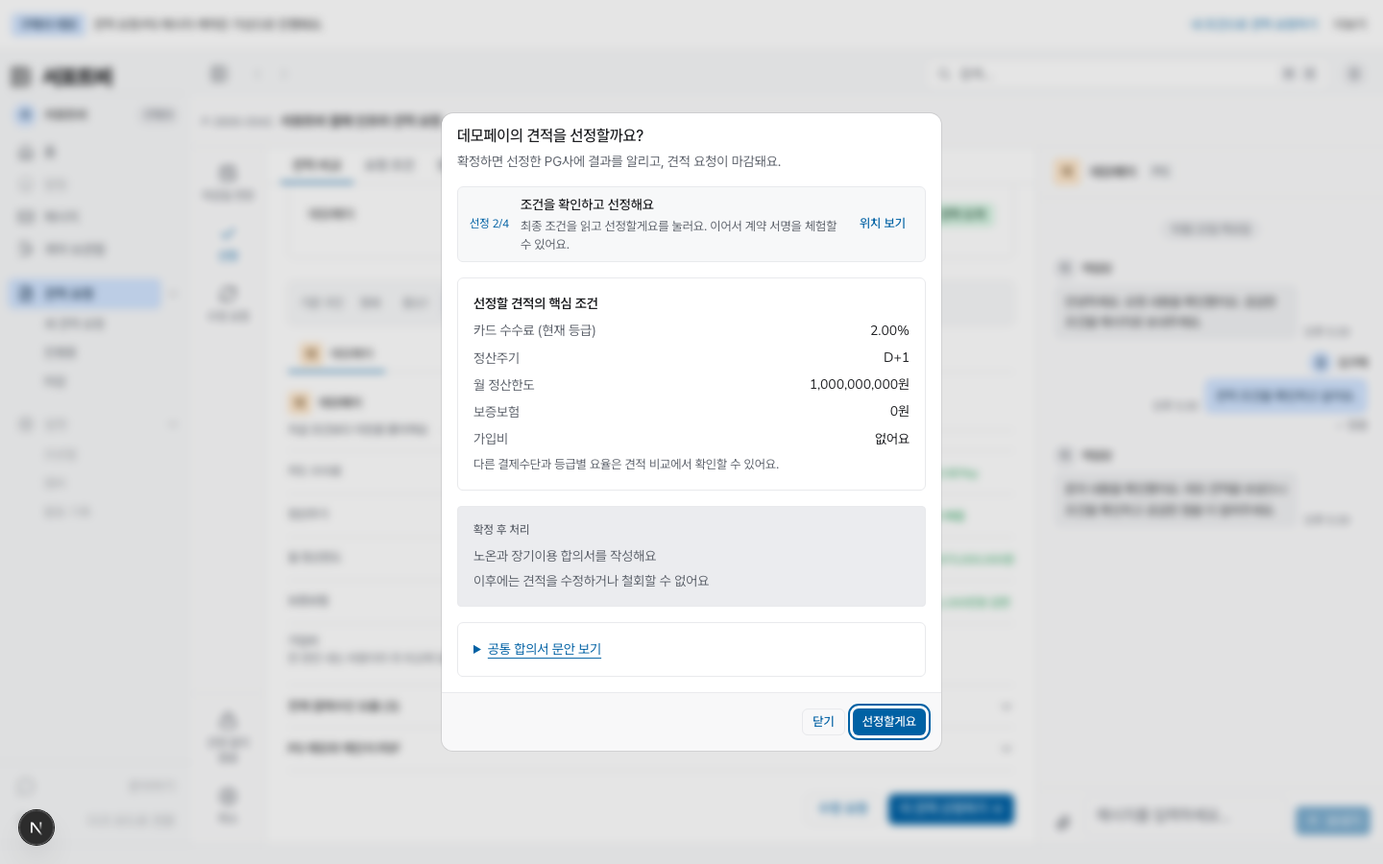
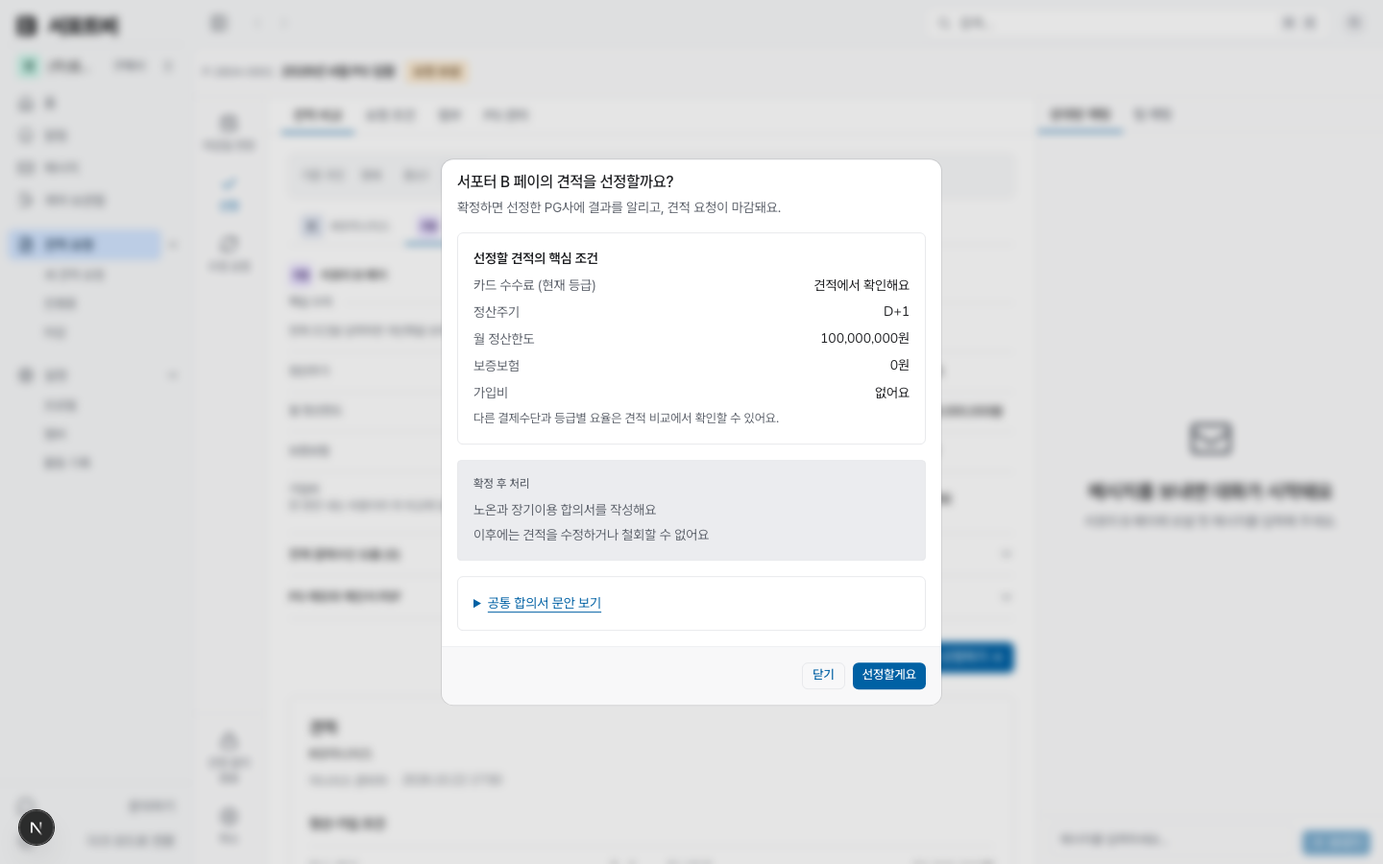
fix: preserve demo guidance and capture authenticated buyer screens

diff --git a/components/deal-room/signing/AgreementConditions.tsx b/components/deal-room/signing/AgreementConditions.tsx
@@ -2,12 +2,12 @@ import { buildPlatformAgreementDocument } from '@/lib/contract-doc/platform-agre
 
 const commonDocument = buildPlatformAgreementDocument('구매사', 'PG사');
 
-/** 선정 전에는 공통 문안 열람만, 발송 전에는 약정 요약을 제공한다. */
-export function AgreementConditions({ beforeAward = false }: { beforeAward?: boolean }) {
+/** 실제 선정 전에는 요약을 숨기고, 데모와 발송 전 안내는 유지한다. */
+export function AgreementConditions({ beforeAward = false, showSummary = true }: { beforeAward?: boolean; showSummary?: boolean }) {
   return (
     <section className="space-y-2 rounded-md border border-[var(--md-sys-color-outline-variant)] p-4 text-sm leading-relaxed">
-      {!beforeAward && <>
-        <h3 className="font-medium">서명 전에 확인해요</h3>
+      {showSummary && <>
+        <h3 className="font-medium">{beforeAward ? '선정 전에 계약 조건을 확인해요' : '서명 전에 확인해요'}</h3>
         <p><span className="md-numeric">2</span>년 약정이에요. 약정기간 동안 해당 PG사의 전자결제서비스를 이용해요.</p>
         <p className="text-[var(--md-sys-color-on-surface-variant)]">
           독점 이용 조건 위반이나 구매사 귀책 해지 시 실제 할인받은 수수료를 노온에 반환하는 조건이 있어요.
@@ -17,8 +17,9 @@ export function AgreementConditions({ beforeAward = false }: { beforeAward?: boo
           약정은 선정한 PG사의 서비스를 실제로 이용하기 시작한 날부터 시작해요.
         </p>
       </>}
-      {beforeAward && (
-        <details>
+      {beforeAward && <>
+        {showSummary && <p>선정 후 회사 정보를 입력하고 노온이 날인한 합의서를 확인해요. 서명을 요청하면 구매사 담당자에게 이메일이 도착해요.</p>}
+        <details className={showSummary ? 'pt-2' : undefined}>
           <summary className="cursor-pointer text-[var(--md-sys-color-primary)] underline underline-offset-4 focus-visible:outline-2 focus-visible:outline-offset-4">공통 합의서 문안 보기</summary>
           <div className="mt-3 space-y-4">
             <p className="text-[var(--md-sys-color-on-surface-variant)]">공통 문안이에요. 회사 정보와 표준 수수료, 할인 폭, 최종 수수료 표는 발송할 합의서에서 확인해요. 최종 수수료는 선정한 견적과 같아요.</p>
@@ -34,7 +35,7 @@ export function AgreementConditions({ beforeAward = false }: { beforeAward?: boo
             <p>{commonDocument.closing}</p>
           </div>
         </details>
-      )}
+      </>}
     </section>
   );
 }

diff --git a/components/rfp/comparison/AwardConfirmDialog.tsx b/components/rfp/comparison/AwardConfirmDialog.tsx
@@ -31,6 +31,7 @@ export function AwardConfirmDialog({
   rfpId,
   awardedBidId,
   pgName,
+  otherCount = 0,
   selectedBid,
   buyerGrade,
   pendingRequote = false,
@@ -42,6 +43,8 @@ export function AwardConfirmDialog({
   rfpId: string;
   awardedBidId: string;
   pgName: string;
+  /** 기존 공개 데모의 미선정 안내에만 사용한다. */
+  otherCount?: number;
   selectedBid: Bid;
   buyerGrade?: MerchantTier;
   pendingRequote?: boolean;
@@ -77,7 +80,9 @@ export function AwardConfirmDialog({
         <DialogHeader>
           <DialogTitle>{pgName}의 견적을 선정할까요?</DialogTitle>
           <DialogDescription>
-            확정하면 선정한 PG사에 결과를 알리고, 견적 요청이 마감돼요.
+            {demo
+              ? '확정하면 선정 PG와 미선정 PG 모두에게 결과를 알리고, 견적 요청이 마감돼요.'
+              : '확정하면 선정한 PG사에 결과를 알리고, 견적 요청이 마감돼요.'}
           </DialogDescription>
           {pendingRequote && <p className="text-[14px] text-[var(--md-sys-color-on-surface-variant)]">수정 견적을 기다리지 않고 현재 견적을 선정해요.</p>}
         </DialogHeader>
@@ -106,11 +111,12 @@ export function AwardConfirmDialog({
           </p>
           <ul className="space-y-1.5 text-[14px] text-[var(--md-sys-color-on-surface-variant)]">
             <li>노온과 장기이용 합의서를 작성해요</li>
+            {demo && <li>미선정 PG {otherCount}곳에 결과를 알려요</li>}
             <li>이후에는 견적을 수정하거나 철회할 수 없어요</li>
           </ul>
         </div>
 
-        {LONG_TERM_AGREEMENTS_ENABLED && <AgreementConditions beforeAward />}
+        {LONG_TERM_AGREEMENTS_ENABLED && <AgreementConditions beforeAward showSummary={!!demo} />}
 
         {error && (
           <p

diff --git a/components/demo/__tests__/SharedDemoScreens.test.tsx b/components/demo/__tests__/SharedDemoScreens.test.tsx
@@ -101,10 +101,17 @@ describe("제품 컴포넌트의 데모 전송 경계", () => {
           rfpId={bid.rfpId}
           awardedBidId={bid.id}
           pgName={DEMO_PG.name}
+          otherCount={0}
           selectedBid={bid}
         />
       </BuyerDemoContext>,
     );
+    expect(screen.getByText('확정하면 선정 PG와 미선정 PG 모두에게 결과를 알리고, 견적 요청이 마감돼요.')).toBeInTheDocument();
+    expect(screen.getByText('미선정 PG 0곳에 결과를 알려요')).toBeInTheDocument();
+    expect(screen.getByText('선정 전에 계약 조건을 확인해요')).toBeInTheDocument();
+    expect(screen.getByText(/년 약정이에요/)).toBeInTheDocument();
+    expect(screen.getByText(/선정 후 회사 정보를 입력하고 노온이 날인한/)).toBeInTheDocument();
+    expect(screen.getByText('공통 합의서 문안 보기').closest('details')).not.toHaveAttribute('open');
     await userEvent.click(screen.getByRole("button", { name: /선정/ }));
     await waitFor(() =>
       expect(demo.getSnapshot().deal?.rfp.status).toBe("awarded"),

diff --git a/components/deal-room/buyer/BuyerDealRoomBody.tsx b/components/deal-room/buyer/BuyerDealRoomBody.tsx
@@ -310,6 +310,7 @@ export function BuyerDealRoomBody({
           rfpId={rfp.id}
           awardedBidId={focusedBid.id}
           pgName={pgName(focusedBid.pgWsId)}
+          otherCount={bids.length - 1}
           selectedBid={focusedBid}
           pendingRequote={requoteByPg[focusedBid.pgWsId]?.status === 'pending'}
           buyerGrade={rfp.bizProfile?.grade}

diff --git a/components/rfp/comparison/FocusComparison.tsx b/components/rfp/comparison/FocusComparison.tsx
@@ -322,6 +322,7 @@ export function FocusComparison(props: Props) {
         rfpId={props.rfpId}
         awardedBidId={active.id}
         pgName={pgName(active.pgWsId)}
+        otherCount={sortedBids.length - 1}
         selectedBid={active}
         pendingRequote={requoteByPg?.[active.pgWsId]?.status === 'pending'}
         buyerGrade={props.buyerGrade}

diff --git a/SCREEN_DESIGN.md b/SCREEN_DESIGN.md
@@ -158,11 +158,11 @@ Admin console (별도 저장소 `admin-supporter-b`, admin.support-b.com, app/(p
 | B2 | `/rfp` | 견적 요청 표 목록. 상태(진행중/마감)·마감일·가맹점 등급 필터를 제공하며 `view` 쿼리나 과거 뷰 쿠키와 무관하게 항상 표로 표시한다. `sent`라도 유효 마감 시각이 지나면 마감 필터에 속하고 `마감`으로 표시한다. PG 수 대신 최신 상담 검토 상태 또는 견적 도착 상태와 다음 행동을 보여준다. 좁은 화면은 같은 표의 행을 2열 요약 카드로 배치하며 제목 링크로 키보드 접근과 새 탭 열기를 지원한다. 작성중 단계는 제거 — draft RFP는 `?status=draft` URL로만 접근한다. | `RfpListTable`, `BoardFilterBar`, `Chip` |
 | B3 | `/rfp-create` | 3단계: 사업자 확인 → 견적 내용(한 화면에 질문 하나: 홈페이지 → 구축 방식 → 업종 → 주요 상품 → 입점 판매자 → 환금성 상품 → 최고 가격대 → 판매 방식 → 배송·서비스 기간 → 계약 유형 → 결제수단 → 갱신 조건 → 제목 → 추가 내용 → 첨부) → PG 선택·최종 확인. 갱신 계약에서만 이전 PG 거래 조건을 입력한다. 실제 구매사 작성의 마지막 화면에서는 마감일과 요청 내용을 확인한 뒤 관리자 정책의 후보 중 PG사 한 곳에 상담을 요청한다. PG사는 기본 선택되지 않고, 접수 불가 업종은 상담을 요청할 수 없다. 미설정·후보 소진 업종은 관리자 기본 추천 PG를 추가 검토 대상으로 제안하며 기본 후보도 없으면 접수할 수 없다. 업종은 견적 내용 단계에서 검색·선택하거나 직접 입력한다. **판매 정보(2026-09-24)**: 입점 판매자 유무는 선택이며 미응답과 아니요를 구분한다. 환금성 상품 유무·최고 상품 가격대·판매 방식은 필수다. 판매 방식은 복수 선택이며 `해당 없음`은 다른 값과 함께 선택할 수 없다. 현재 질문에서 다음을 누를 때만 오류를 표시하고, 이전 이동·새로고침에서 초안 답변과 질문 위치를 복원한다. 답변은 최종 확인과 구매사·PG 요청 상세에 표시하며 신규 상담의 서버 발송에서도 검증한다. 기존 견적의 미입력 판매 정보는 추정하지 않는다. **작성 이동(2026-09-28)**: 실제 구매사 위저드는 사업자 확인·견적 내용·최종 확인에서 이전·다음(최종은 상담 요청하기) 버튼을 스크롤과 분리한 하단 영역에 항상 표시한다. 첫 단계 이전과 추천 조회 중·오류·후보 없음의 상담 요청 버튼은 비활성이다. 견적 내용에서는 Enter로 다음, Shift+Enter로 이전 질문으로 이동하며 버튼과 동일한 검증을 거친다. 여러 줄 입력·한글 조합·선택 메뉴·기본 버튼 조작은 우선하고 최종 확인에서 Enter만으로 상담 요청을 보내지 않는다. 데스크톱은 현재 질문 제목·질문 단위 안내와 단계 메뉴를 스크롤 중에도 유지하고, 모바일은 하단 버튼을 유지한다. **입력 접근성(2026-09-29)**: 하단 단축키 안내 문구는 표시하지 않는다. 질문 전환은 제목 초점을 유지하고, 검증 실패 시에는 해당 입력 또는 선택지로 초점을 옮긴다(반복 시도 포함). 홈페이지·제목·주요 상품과 필수 판매 정보 선택 오류는 입력의 읽기 설명에 연결하며, 판매 정보 선택지는 키보드 초점 링을 표시한다. 홈페이지 입력은 URL 키보드를 사용하고 자동 대문자와 맞춤법 교정을 끈다. **작성 UI 통일(2026-10-20)**: 앱 사이드바는 유지하고 작성 영역은 `/quote-start`의 안내 문구·간격·카드형 선택지·제목 옆 용어 설명을 공유한다. 질문 위에 구간 이름·선택 여부와 진행률(`n / m`·막대)을 표시하고, 선택 질문은 `지금은 건너뛰어요`로 넘어갈 수 있다. 회원 작성의 첫 질문 `이전`은 사업자 확인으로 돌아가고 마지막 질문 `내용 확인하기`는 PG 추천·최종 확인으로 이어진다. 데스크톱은 안내와 단계 이동을 왼쪽에, 질문을 오른쪽에 두며 모바일은 안내·단계 이동 아래 질문을 배치한다. 짧은 모바일 화면에서는 안내를 접어 입력 공간을 확보하고 하단 이동 버튼을 유지한다. **한 화면 질문**: 입점 판매자·환금성 상품의 네/아니요는 나란히, 최고 가격대·판매 방식·업종 결과는 640px 이상에서 2열로 배치해 선택지가 스크롤 없이 한 화면에 들어오게 한다. 실제 작성의 사업자 확인·최종 확인도 위에 단계 제목 줄을 두지 않는다(단계는 사이드바·모바일 진행 표시가 알린다). 최종 확인은 추천 결과가 나오면 1024px 이상에서 왼쪽에 PG 추천, 오른쪽에 마감일과 요청 요약을 둔다. 1024px 미만에서는 같은 두 영역을 한 화면씩 보여준다: 먼저 PG사를 고르고(고르기 전에는 `다음` 비활성) `다음`을 누르면 마감일과 요청 요약 화면으로 넘어가 `상담 요청하기`로 보낸다. 이 화면의 `이전`은 PG 선택 화면으로, PG 선택 화면의 `이전`은 견적 내용으로 돌아간다. 실제 작성의 최종 확인에서 Shift+Enter도 현재 화면의 `이전`과 같은 곳으로 이동하며, 발송 중이나 랜딩·튜토리얼 샘플에서는 동작하지 않는다. 화면을 바꾸면 새 화면의 처음으로 이동하고 초점을 옮긴다. 요청 요약은 제목·업종·결제수단·첨부 수만 펼치고 나머지 답변·상세 요청사항·첨부 목록은 `요청 내용 전체 보기`(접기)에 둔다. 랜딩·튜토리얼 샘플은 기존 흐름과 전체 요약을 유지한다. 랜딩·튜토리얼의 기존 1:N 샘플에서는 업종별 승인 PG를 먼저 추천하고 다른 승인 PG도 선택할 수 있으며, 추천만으로 자동 선택되지는 않는다. 업종·PG 연결은 별도 admin 콘솔의 `/pg-recommendations`에서 편집하며 PG 한 곳을 여러 업종에 연결할 수 있다. **첨부 삭제는 5초 동안 되돌릴 수 있어요**: 여러 파일을 연달아 삭제하면 하나의 토스트로 모이고, `되돌리기`를 누르면 원래 순서대로 복원됩니다. **마운트 시 draft 재조정**: 화면 진입 시 localStorage draft를 자동 정리 — (1) 현재 서버 PG 목록에 없는 PG 워크스페이스 제거, (2) 삭제된 업종 선택 초기화, (3) 만료된 마감일 초기화, (4) 24h 이후 서버에서 sweep된 첨부파일 제거. PG·마감일·첨부파일 정리는 info toast로 안내한다(`verifyDraftFilesAction` — DB unclaimed 검증). **이 정리는 데모·샘플 호스트에서는 아예 돌지 않는다 (v0.8.1.0)** — 랜딩 데모(`WizardPageHost`, `guest`)와 buyer 튜토리얼(`BuyerTutorialFlow`, `onSampleSubmit`)이 fixture PG 목록으로 같은 위저드를 마운트하는데, React는 자식 effect를 부모보다 먼저 돌리므로 호스트의 draft 격리 스냅샷이 떠지기 전에 이 정리가 방문자의 **실제** 초안에서 PG 선택을 지워버린다. 랜딩에는 `ToasterProvider`도 없어 위 안내 토스트마저 삼켜져 방문자는 잃은 줄도 모른다. **PG 선택(3단계 최종 확인 화면)**: PG 하나가 토글 버튼 하나이며 선택 상태를 칩 색상 · `aria-pressed` · 라벨 옆 `N/M 선택` 카운터로 알린다(`data-testid="pg-select-count"`, 0에서도 감추지 않는다 — 기준선에 표시가 없으면 무엇과 견줄지 알 수 없다). 카운터의 분자와 `전체 선택`/`전체 해제` 판정은 **초안과 화면 목록의 교집합**으로 센다: 테스트 PG 숨김(CLAUDE.md, v0.4.53.0) 이후 초안이 목록의 상위집합일 수 있어, 초안 개수를 그대로 쓰면 `3/2`가 뜨고 개수만 비교하면 멤버십이 어긋난 채 '전체 해제'가 그려진다. 목록이 비면 `전체 선택`은 disabled — 라벨은 선택인데 동작은 초안 비우기가 되기 때문. | `BizLookupField`, `GradeConfirmPanel`, `RfpStep3PgSelect`, `RfpStep4Review`, `RfpAttachmentDropzone`, `RfpCreateWizard` |
 | B4 | `/rfp/:id` | RFP 상세 + 받은 견적 비교·선정. **진입**: 목록(B1) 행 클릭 시 블러 모달 딜룸(`@modal` 인터셉트), 새로고침·딥링크는 정식 페이지 — 둘 다 `DealRoomFull`/`DealRoomShell` 공유. 좌측 76px 아이콘 **작업** 레일(`DealRoomActionRail`) + 중앙 **콘텐츠** 탭(`DealRoomCenter`) — 요청 조건·첨부·PG 관리는 상단 탭만 소유하고, 레일에는 선정·재요청·선정 없이 종료·취소 같은 작업만 둔다(종료·취소는 하단 분리). `선정 없이 종료`는 기존 closed 전이이며, 확인창에서 이후 받은 견적 선정·새 견적 접수·요청 재개가 모두 불가함을 알린다. 기존 1:N 견적에 견적이 없으면 선정·재요청을 감추고 빈 상태가 초대 PG 수·마감 D-day·`초대 현황 보기` 단일 CTA를 보여준다. 맞춤 상담은 견적이 없어도 상담 상태·이력을 보여주며 마감·취소 후에도 결과를 확인할 수 있다. **포커스 스포트라이트**(탭으로 PG 1개 깊게 + 탭 hover peek) + **개선 요약 hero**(현재 조건 → 제안값) + **값 단위 hover 비교**(지표로 전 PG 줄세움 팝오버). 부차 정보는 아코디언(내가 요청한 조건 / 전체 결제수단 요율 / PG 메모·제안서 PDF / PG 초대·게시판 관리). `요청 조건`에는 작성 때 확정한 계약 유형·배송 및 서비스 기간·기본/커스텀 요청 결제수단을 명시한다. **PG 관리에서 발송 전 대기 중인 PG 선택은 X 버튼으로 취소할 수 있고, 이미 발송된 초대는 취소할 수 없다** — 취소한 PG는 다시 추가할 수 있다. 게시판 공개 여부는 아코디언 내 `RfpBoardVisibilityStatus` 읽기전용 칩(변경 불가 — 작성 시 확정)으로 표시되며, 동일 칩이 상세 화면 헤더에도 노출된다. 견적별 '내 메모'는 제거 — 팀 메모는 딜룸 '팀 채팅'으로 일원화(첨부 지원). 표·보드·칸반 제거. **딜룸 채팅**(`DealRoomChat`→`ChatPanel`; lg+ 우측 aside, lg 미만 `DealRoomChatFab` 하단 시트): 탭 [상대방 채팅(FocusComparison 이 `useDealRoom().setCounterparty` 로 포커스 PG 추종, 전송에 RFP 태그 기본값) \| 팀 채팅(워크스페이스 내부 스레드, PDF·이미지 첨부)]. **선정 종료 후**: 실제 선정 성공 직후에는 `AwardResult` 전체 화면에서 최종 계약 조건 협의 완료 → 선정 PG사 온보딩 담당자의 영업일 기준 3일 이내 이메일 → 메일을 통한 최종 계약 마무리를 안내한다. 선정 조건은 기본 접힘이며 `선정한 조건 보기`로 열고, 주 버튼은 `견적 목록으로 돌아가요` 하나다. 목록 복귀 시 `@modal/page.tsx`가 인터셉트 슬롯을 비워 완료 화면과 딜룸을 닫는다. 비교 CTA와 작업 레일은 같은 성공 화면을 공유하며, 처음부터 awarded인 상세에는 축하 화면을 띄우지 않는다. 재방문 시 모든 탭 위 `PG사 도입 안내`가 선정일로부터 3영업일임을 명시한다. 담당자 정보가 없어도 선정 견적의 PG 이름으로 안내하고, 이메일 발송 상태는 추정하지 않는다. 비교 탭의 선정 결과 제목과 담당자 `ContactBlock`은 유지한다. **노온 합의서 계약 탭**: 신규 `platform_buyer` 계약만 맨 앞·기본 활성으로 표시한다. 완료 화면 이후 상세를 다시 열면 이 탭이 기본이다. B8의 회사 정보 → 날인 PDF → 서명 요청 순서를 제공하며 중단 후 저장본을 이어서 연다. 기존 PG–구매사 계약은 탭·요약 모두 숨긴다. 선정 견적·채팅은 그대로 유지한다. | `DealRoomModal`, `DealRoomFull`, `DealRoomShell`, `BuyerDealRoomBody`, `DealRoomActionRail`, `DealRoomCenter`, `FocusComparison`, `ImprovementSummary`, `MetricComparePopover`, `AwardConfirmDialog`, `AwardResult`, `BidPdfPane`, `PlatformAgreementPanel`, `SigningSummaryStrip`, `AwardContextLine`, `DealRoomChat`, `DealRoomChatFab`, `ChatPanel`, `DealRoomContext`, `TeamThreadView`, `MessageAttachmentGrid`, `RfpBoardVisibilityStatus`, `DealResultHeader`, `ContactBlock`, `CopyButton` |
-| B5 | (B4에 통합) | 선정은 B4 포커스 뷰의 CTA → **인라인 `AwardConfirmDialog`**(결과·마감 경고 + 확정). 상단에는 “확정하면 선정한 PG사에 결과를 알리고, 견적 요청이 마감돼요.”를 안내한다. 확정 후 처리는 “노온과 장기이용 합의서를 작성해요”·“이후에는 견적을 수정하거나 철회할 수 없어요”만 표시한다. 별도 계약 조건 제목·요약 문단 없이 기본으로 접힌 `공통 합의서 문안 보기` 한 줄에서 실제 발송과 같은 `buildPlatformAgreementDocument`의 고정 문안을 펼쳐 본다. 회사 정보와 실제 수수료 표는 발송할 합의서에서 확인하며 별도 구매사 승인 단계는 추가하지 않는다. 확정 후 PG 도입 메일 안내 완료 화면을 표시하고, 상세 재방문 시 구매사 합의서 탭을 연다. 선정 트랜잭션에서 구매사 작성 대기 계약도 생성하며 외부 서명 요청은 구매사의 명시적 행동에서만 실행한다. 별도 `/rfp/:id/award` 라우트 없음 | `AwardConfirmDialog`, `AgreementConditions`, `PlatformAgreementPanel`, `awardRfpAction` |
+| B5 | (B4에 통합) | 선정은 B4 포커스 뷰의 CTA → **인라인 `AwardConfirmDialog`**(결과·마감 경고 + 확정). 실제 구매사 화면의 상단에는 “확정하면 선정한 PG사에 결과를 알리고, 견적 요청이 마감돼요.”를 안내한다. 확정 후 처리는 “노온과 장기이용 합의서를 작성해요”·“이후에는 견적을 수정하거나 철회할 수 없어요”만 표시한다. 별도 계약 조건 제목·요약 문단 없이 기본으로 접힌 `공통 합의서 문안 보기` 한 줄에서 실제 발송과 같은 `buildPlatformAgreementDocument`의 고정 문안을 펼쳐 본다. 회사 정보와 실제 수수료 표는 발송할 합의서에서 확인하며 별도 구매사 승인 단계는 추가하지 않는다. 확정 후 PG 도입 메일 안내 완료 화면을 표시하고, 상세 재방문 시 구매사 합의서 탭을 연다. 선정 트랜잭션에서 구매사 작성 대기 계약도 생성하며 외부 서명 요청은 구매사의 명시적 행동에서만 실행한다. 별도 `/rfp/:id/award` 라우트 없음 | `AwardConfirmDialog`, `AgreementConditions`, `PlatformAgreementPanel`, `awardRfpAction` |
 | B6 | `/settings/profile` | 구매사 사업자 프로필과 등급 갱신 상태. **사용자 섹션**: 프로필 사진 업로드·삭제(`UserAvatarForm`) + **휴대폰 인증**(`UserPhoneForm`, v0.4.46.0 — 계약 서명 본인인증이 010 번호를 요구하고 가입 외엔 넣을 경로가 없었다. 미등록이면 왜 필요한지 함께 안내. **010 게이트는 SMS 이전이다 (v0.5.1.0)** — OTP 왕복 자체는 `01[0-9]` 를 통과시켜(`isCompletePhone`·`normalizePhone`) 011 번호가 실제 문자와 인증번호 입력을 다 거친 뒤 저장에서야 거절됐다. 이 화면은 `requireMobile010` 로 그 전에 막고 이유를 말한다. 안내는 번호를 **다 친 뒤에만** 뜬다. 가입은 010 제약이 없어 기본값은 꺼짐). **워크스페이스 섹션(로고·사업자번호)은 승인된 admin·운영계정이 편집하고, 이름은 같은 권한으로 변경 요청** — 이름은 즉시 저장하지 않고 운영자 승인 후 반영한다. `canEditWorkspace`(`isApprovedAdmin` + 마스터 계정은 `isMasterEmail` 로 면제) 한 술어를 세 폼에 그대로 넘긴다. 권한이 없으면 폼 대신 관리자 요청 안내만 뜬다 | `UserAvatarForm`, `UserPhoneForm`, `WorkspaceLogoForm`, `WorkspaceNameForm`, `WorkspaceBizNoForm` |
 | B7 | `/settings/members` | buyer 워크스페이스 멤버 관리. 승인된 admin과 운영계정이 초대·재발송·취소·역할 변경·내보내기를 할 수 있다. 마지막 승인 admin은 강등·내보내기에서 보호된다. | `MembersPanel`, `InviteMemberForm` |
 
-**B4·B5 좁은 화면 보완:** 견적 개선 요약은 현재값과 제안값을 2열로 쌓아 표시한다. 선정 확인창은 PG 이름과 함께 선택한 견적의 현재 등급 카드 수수료·정산주기·월 정산한도·보증보험·가입비를 다시 보여준 뒤 확정 후 처리 두 문장과 접힌 공통 합의서 문안 보기를 제공한다. 하단의 `닫기`·`선정할게요` 버튼을 유지하며 공개 데모도 같은 확인창을 사용한다. 다른 결제수단과 등급별 요율은 견적 비교에서 확인한다.
+**B4·B5 좁은 화면 보완:** 견적 개선 요약은 현재값과 제안값을 2열로 쌓아 표시한다. 선정 확인창은 PG 이름과 함께 선택한 견적의 현재 등급 카드 수수료·정산주기·월 정산한도·보증보험·가입비를 다시 보여준 뒤 확정 후 처리 두 문장과 접힌 공통 합의서 문안 보기를 제공한다. 하단의 `닫기`·`선정할게요` 버튼을 유지하며 공개 데모는 같은 확인창의 기존 안내(미선정 PG 수·계약 조건 요약)를 유지한다. 다른 결제수단과 등급별 요율은 견적 비교에서 확인한다.
 
 **PG 도입 메일 안내 범위:** 선정일로부터 3영업일 이내라는 운영 안내이며, 이 화면 변경은 이메일 발송 자동화·발송 상태 추적을 추가하지 않는다. 공개 데모·튜토리얼은 기존 선정 후 여정을 유지한다. [완료·재방문 화면의 변경 전후 캡처](docs/screenshots/pg-award-handoff/README.md)에서 화면과 캡처 조건을 확인한다.
 

diff --git a/docs/screenshots/award-confirm/README.md b/docs/screenshots/award-confirm/README.md
@@ -1,0 +1,10 @@
+# 선정 확인창
+
+로그인한 구매사의 실제 `/rfp/P-2604-0001` 페이지에서 촬영했습니다. `/demo` 화면이 아닙니다.
+
+- 환경: 변경 브랜치를 로컬에서 실행하고, 격리한 임시 Postgres에 기존 테스트 시드를 적재
+- 화면 크기: 모바일 390×844, 데스크톱 1440×900
+- `collapsed-*`: 기본으로 접힌 합의서 문안
+- `expanded-*`: 전문을 펼치고 키보드로 하단 선정 버튼에 접근한 상태
+- 견적 확정은 실행하지 않았으며 운영 데이터는 사용하지 않았습니다.
+- 시드 견적에는 카드 요율이 없어 기존 대체 문구인 “견적에서 확인해요”가 표시됩니다.

diff --git a/CHANGELOG.md b/CHANGELOG.md
@@ -6,7 +6,7 @@ All notable changes to this project will be documented in this file.
 
 ### Changed
 
-- 견적 선정 확인창에서 핵심 견적 조건과 확정 후 처리만 간결하게 확인할 수 있어요. 공통 합의서 문안은 필요할 때 펼쳐 읽을 수 있어요.
+- 실제 구매사 화면의 견적 선정 확인창에서 핵심 견적 조건과 확정 후 처리만 간결하게 확인할 수 있어요. 공통 합의서 문안은 필요할 때 펼쳐 읽을 수 있어요.
 
 ## [0.41.2.0] - 2026-10-22
 
